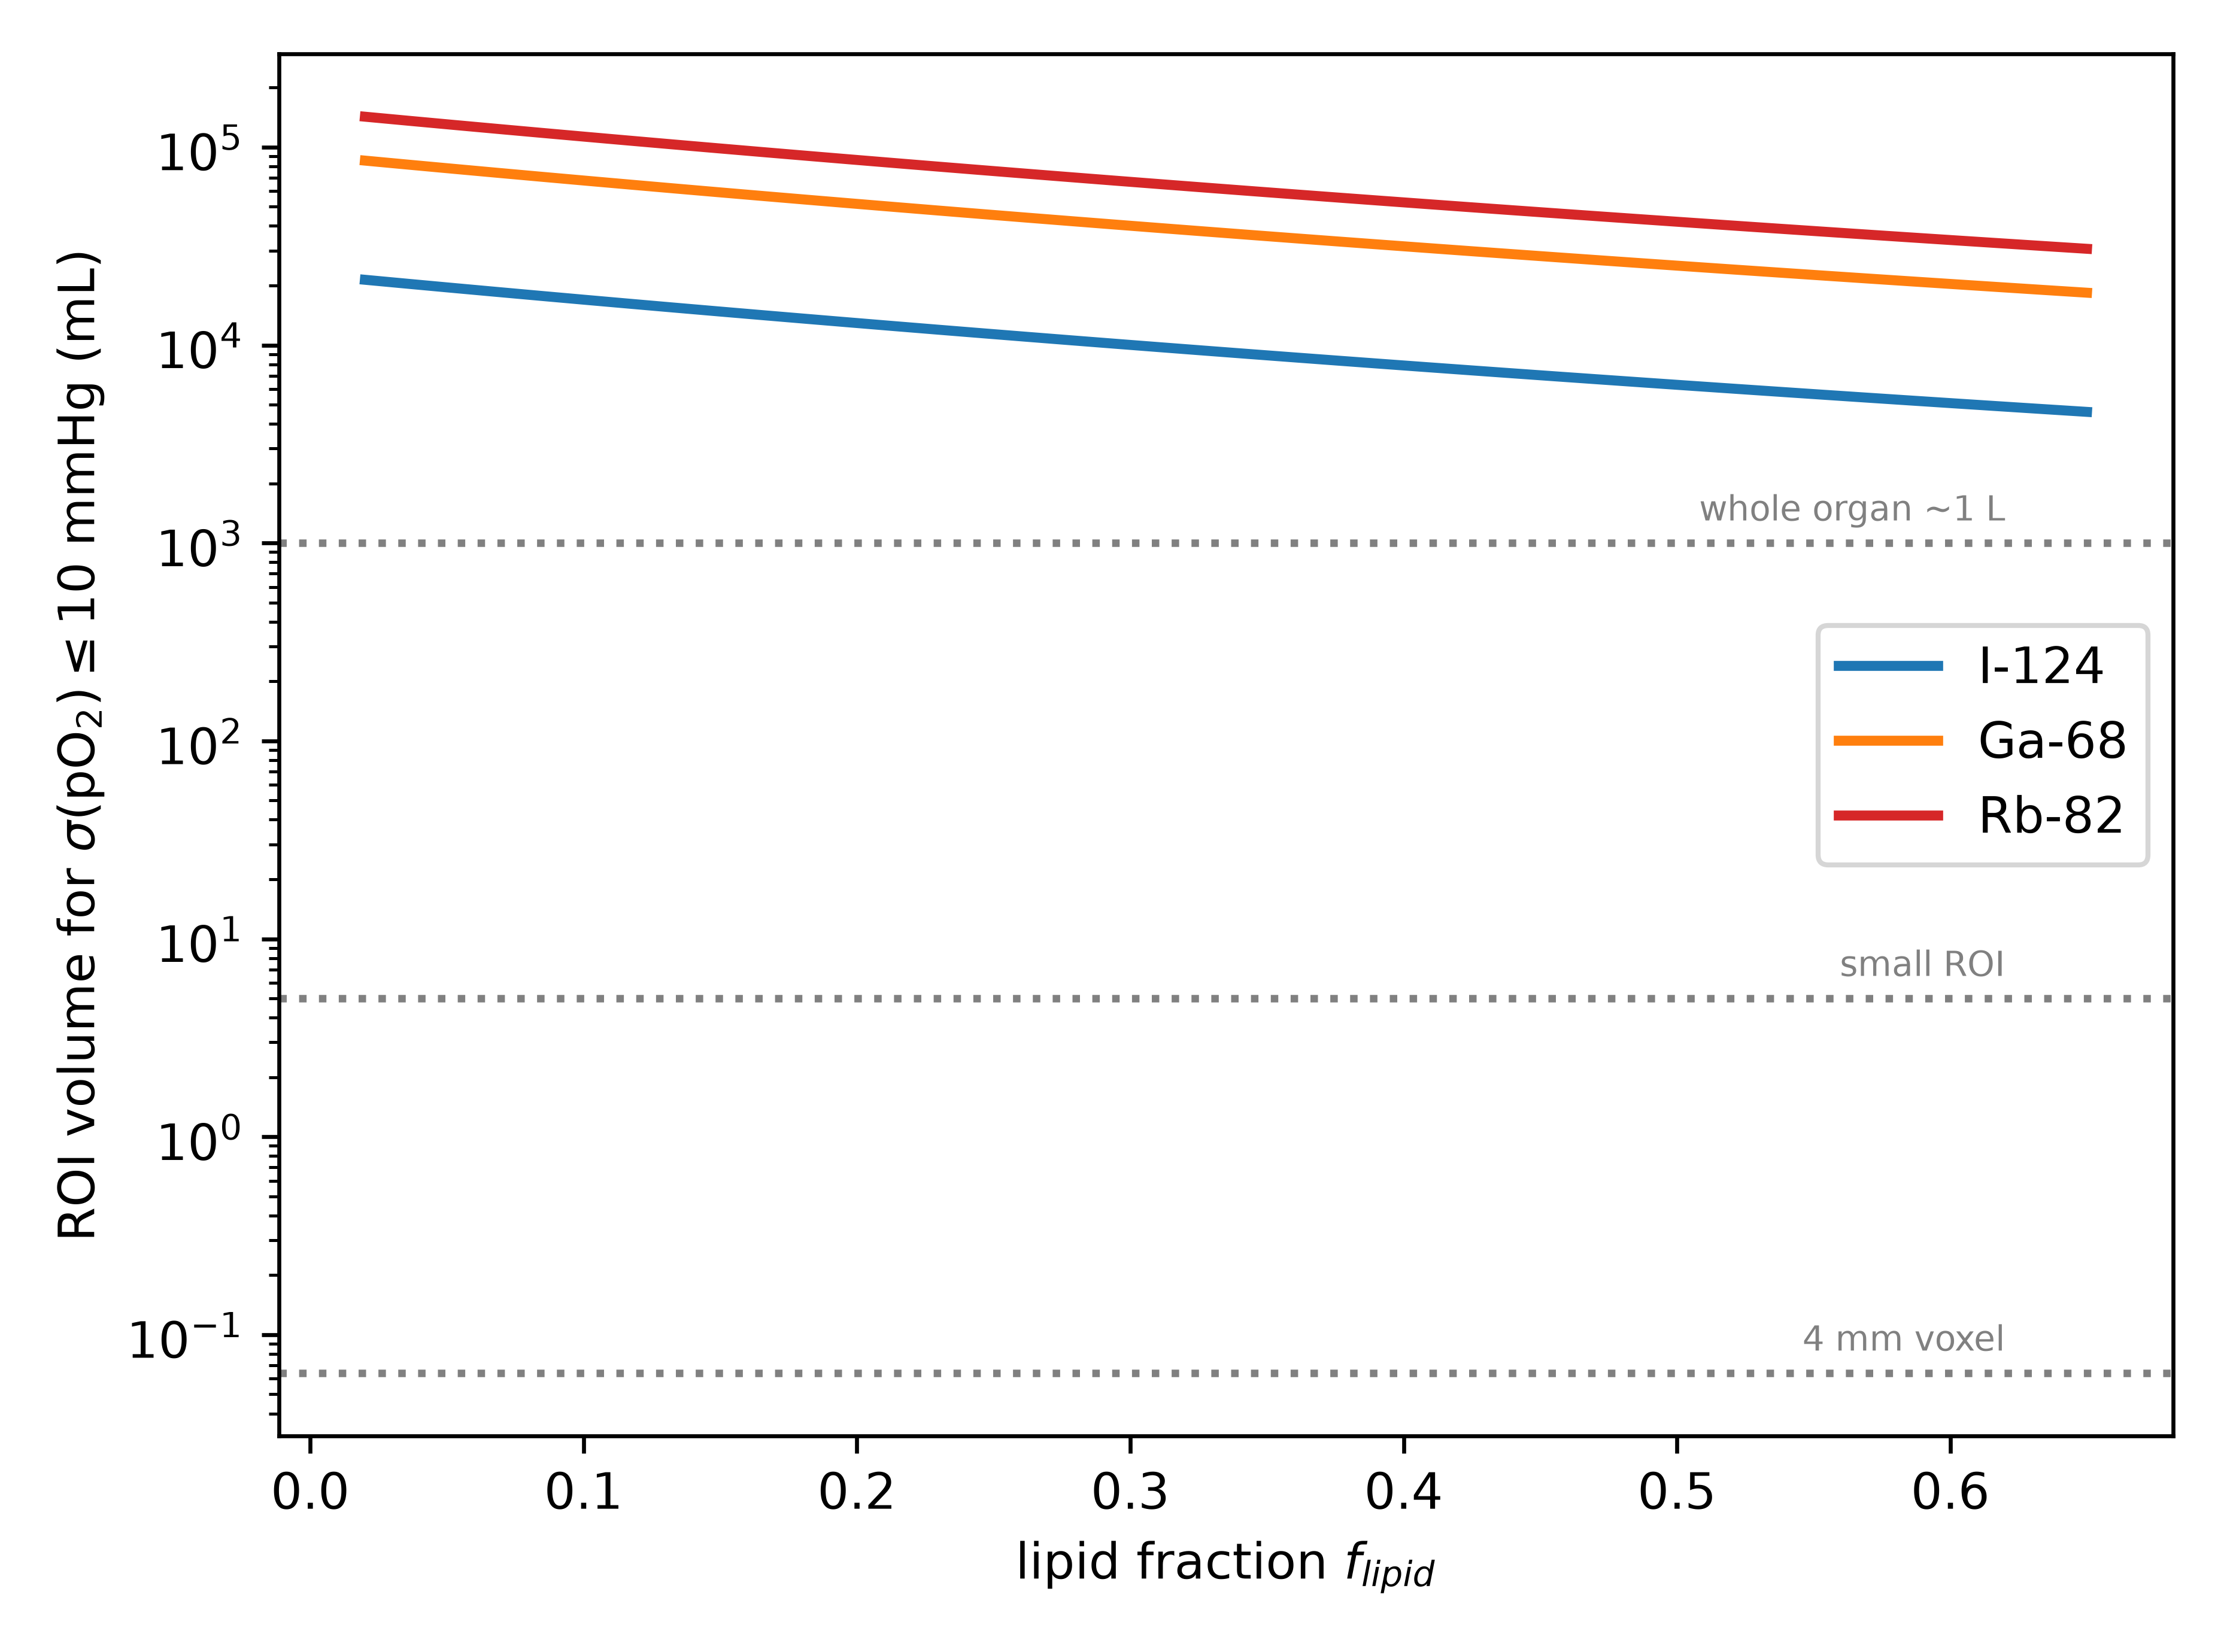
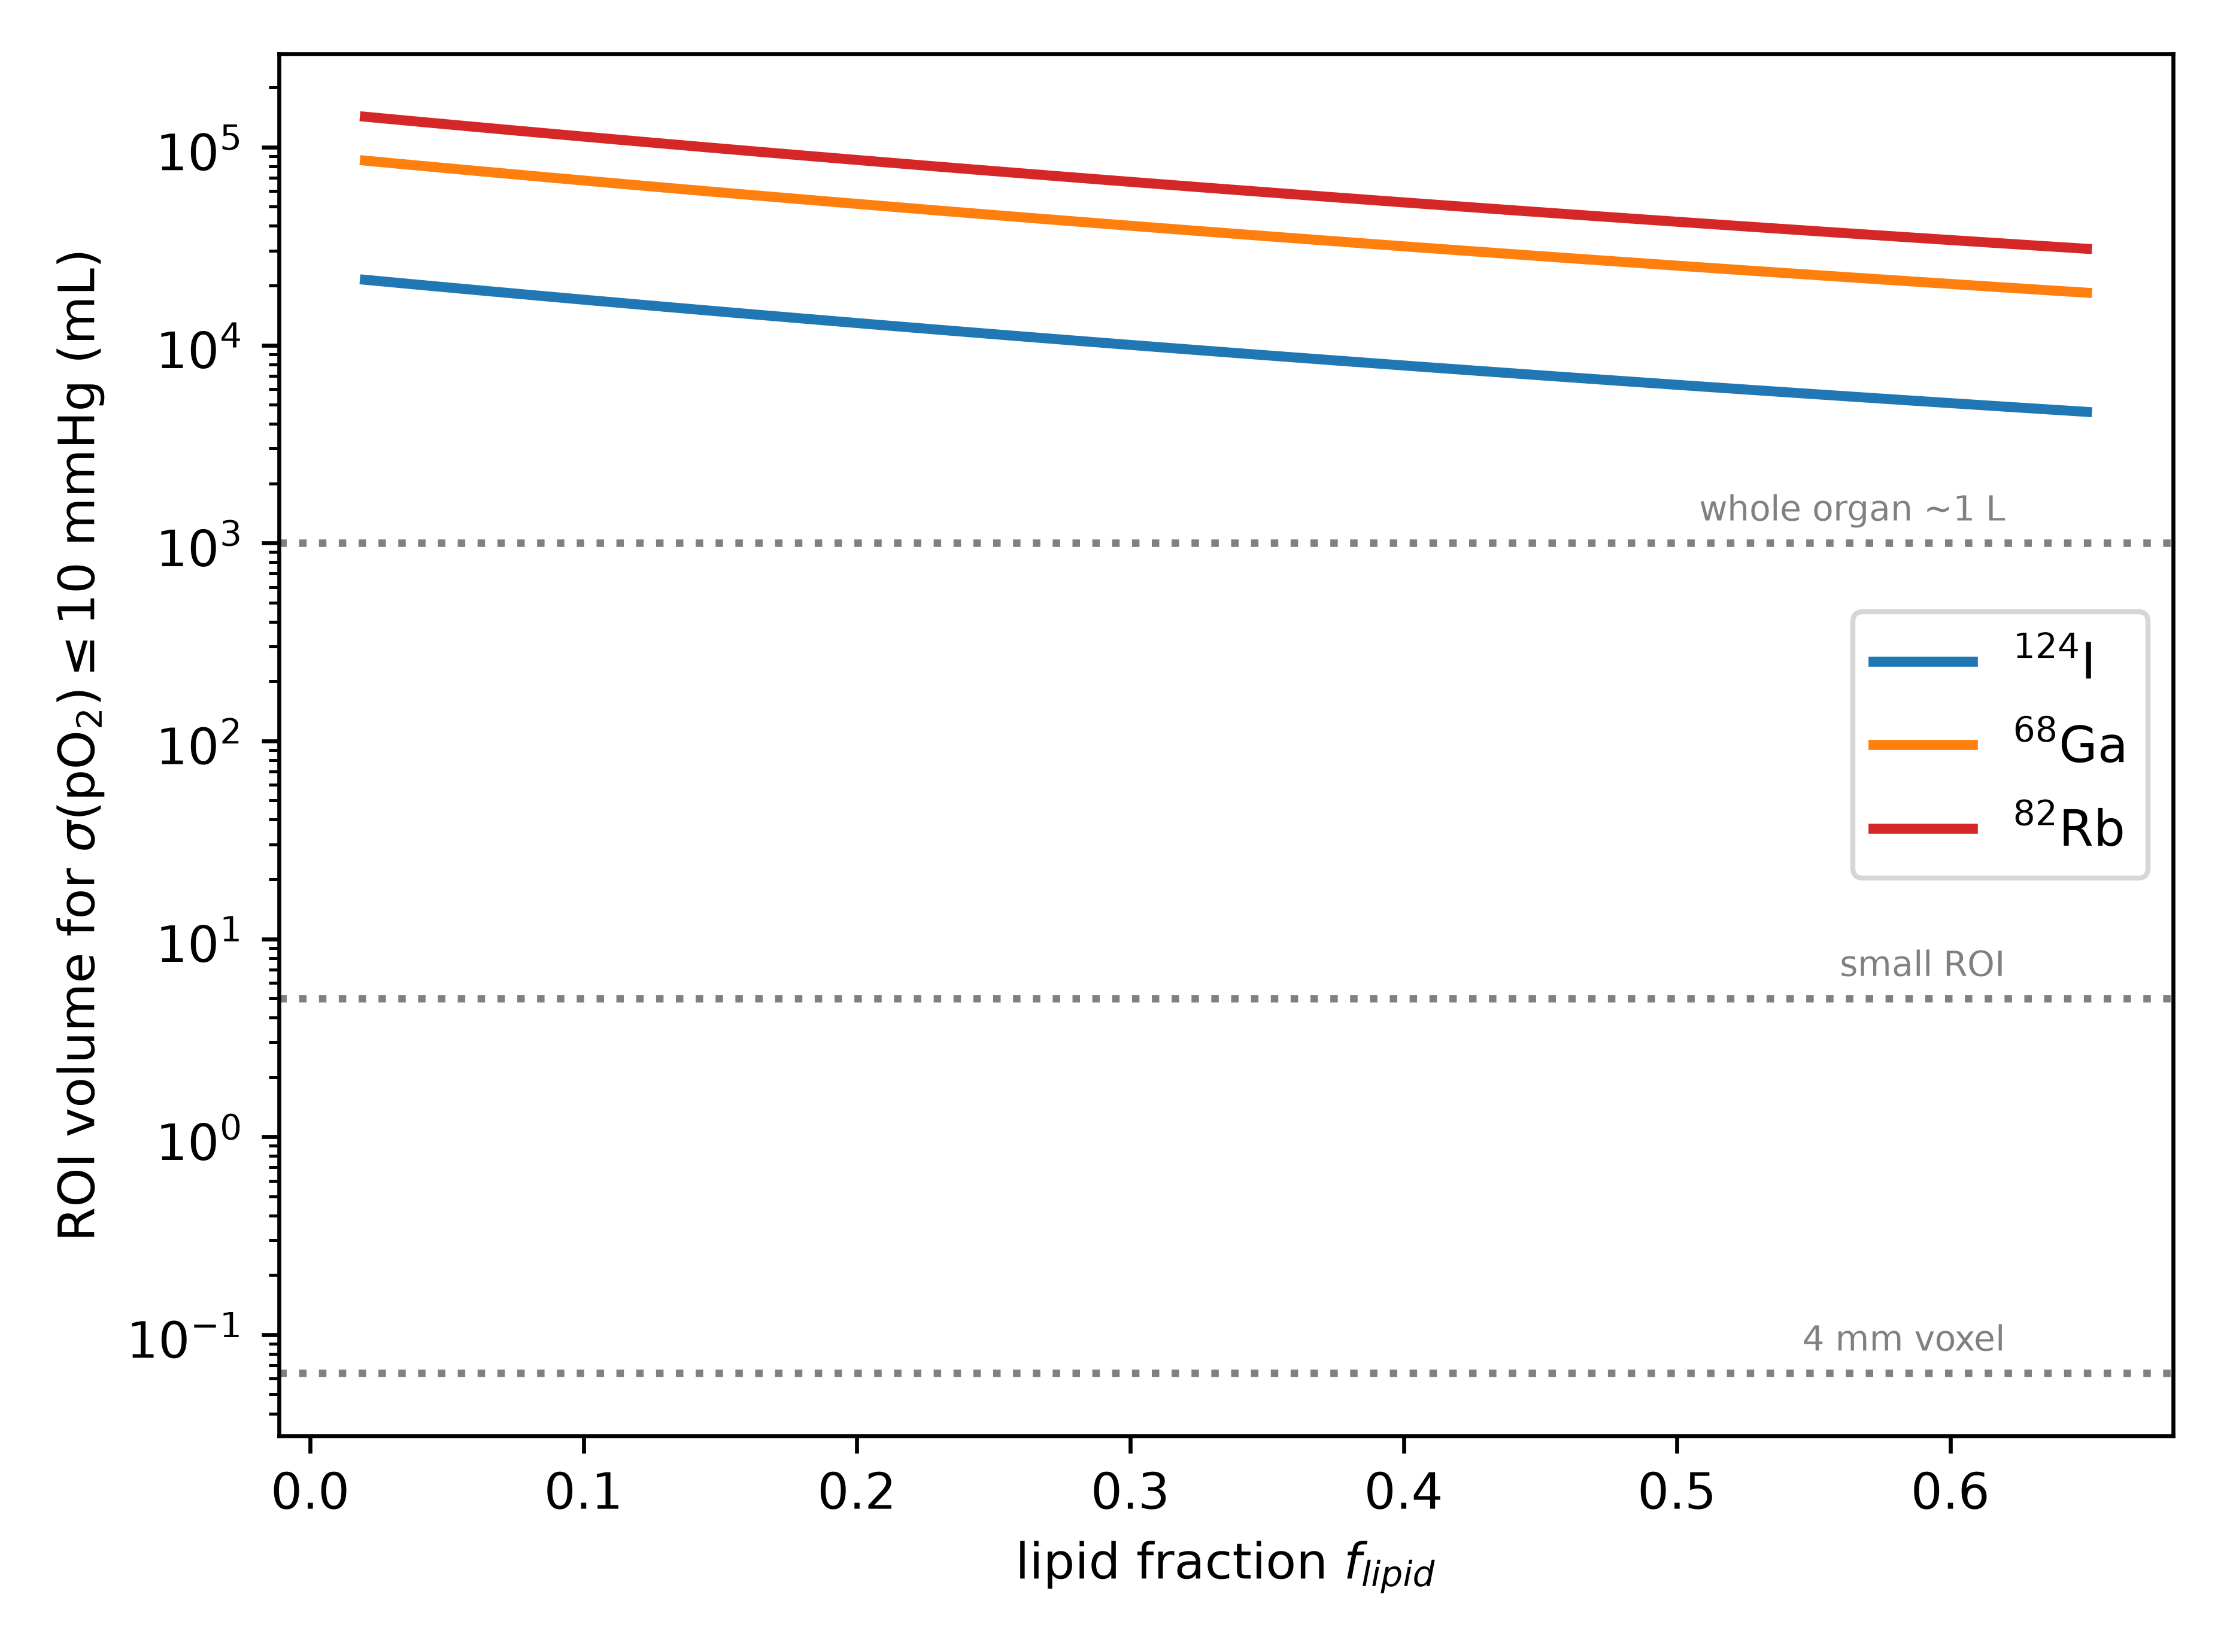
Archive EJNMMI LaTeX submission package

Changed region(s): [[0.8108, 0.3739, 0.9667, 0.5297]]

diff --git a/paper/submission_ejnmmi_latex/main.tex b/paper/submission_ejnmmi_latex/main.tex
@@ -1,0 +1,318 @@
+% Springer Nature LaTeX submission source generated from paper/manuscript_ejnmmi.md
+% Template class: Springer Nature sn-jnl.cls, December 2024 package.
+% Editorial Manager note: all files are kept at the same folder level.
+\documentclass[pdflatex,sn-mathphys-num]{sn-jnl}
+
+\usepackage[T1]{fontenc}
+\usepackage[utf8]{inputenc}
+\usepackage{graphicx}
+\usepackage{amsmath,amssymb,amsfonts}
+\usepackage{booktabs}
+\usepackage{longtable}
+\usepackage{array}
+\usepackage{calc}
+\usepackage{url}
+\usepackage{textcomp}
+\urlstyle{same}
+\def\UrlBreaks{\do\/\do-\do\_}
+\sloppy
+
+\hypersetup{hypertexnames=false}
+\providecommand{\tightlist}{\setlength{\itemsep}{0pt}\setlength{\parskip}{0pt}}
+\raggedbottom
+
+\begin{document}
+
+\title[Oxygenation versus tissue composition in positronium-lifetime PET]{Oxygenation versus tissue composition in positronium-lifetime PET: an identifiability limit for hypoxia imaging}
+
+\author*[1,2]{\fnm{Ernest Darell} \sur{Zerme{\~n}o}}\email{[email redacted]}
+
+\affil*[1]{\orgname{Universidad Panamericana}, \orgaddress{\city{Zapopan}, \country{Mexico}}}
+\affil[2]{\orgname{Universidad de Guadalajara}, \orgaddress{\city{Zapopan}, \country{Mexico}}}
+
+\abstract{
+
+\textbf{Purpose.} Positronium lifetime imaging with long-axial-field-of-view PET/CT has been proposed as a biomarker of tissue oxygenation. The same lifetime also depends on tissue composition. We quantified whether oxygenation and composition can be separated from positronium observables, and what bias arises if composition is ignored.
+
+\textbf{Methods.} A rate-additivity model mapped pO\(_2\) and lipid/free-volume fraction to the ortho-positronium lifetime \(\tau_3\) and intensity \(I_3\). We derived the apparent-pO\(_2\) bias of a water-calibrated reader, analysed Fisher-information rank for \(\tau_3\) alone, computed Cram{\'e}r-Rao bounds (CRLBs) for \((pO_2,f)\) from a Poisson lifetime-spectrum model with nuisance profiling, and translated the bounds into counts and region-of-interest volumes.
+
+\textbf{Results.} From \(\tau_3\) alone, oxygenation and composition were structurally non-identifiable because both enter one summed decay rate. Ignoring composition produced apparent-pO\(_2\) errors of -178, -439 and -860 mmHg at 2\%, 5\% and 10\% lipid for tissue at 20 mmHg. Adding \(I_3\) restored identifiability in principle when the \((\lambda_3,I_3)\) Jacobian was non-collinear; in the pessimistic baseline \(\partial I_3/\partial pO_2\approx0\), this required \(\partial I_3/\partial f\neq0\). The pO\(_2\) CRLB remained 330-760 mmHg at \(10^5\) o-Ps counts. A 10 mmHg target required litre-scale pooling in current yield scenarios and was unreachable at native 4 mm voxel scale. Under an optimistic high-lipid-quenching stress test, small fatty ROIs approached feasibility, but lean tumour-like tissue remained litre-scale.
+
+\textbf{Conclusion.} Positronium-lifetime hypoxia imaging is limited by an oxygenation-versus-composition identifiability problem. Lifetime-only maps should not be interpreted as oxygenation maps without composition control and a second observable.}
+
+\keywords{positronium lifetime imaging, PET/CT, hypoxia, oxygenation, identifiability, Cram{\'e}r--Rao bound}
+
+\maketitle
+
+\section{Introduction}\label{introduction}
+
+Ortho-positronium (o-Ps), the triplet bound state formed in a fraction of positron-electron annihilations, localises in nanometre-scale free-volume regions and annihilates in matter predominantly through pick-off processes. Its lifetime is therefore sensitive to tissue microstructure and composition. Molecular oxygen provides an additional paramagnetic quenching channel through spin conversion, making the o-Ps lifetime an attractive candidate biomarker for oxygenation and tumour hypoxia \cite{ref1,ref2}. This is clinically relevant because hypoxic tumour regions are more resistant to radiotherapy and systemic therapy, while established nuclear-medicine hypoxia tracers have practical limitations.
+
+The technical basis for in-vivo positronium lifetime imaging (PLI) has advanced rapidly. Dedicated multi-photon systems and long-axial-field-of-view PET/CT scanners now support in-vivo positronium measurements and regional lifetime estimates \cite{ref3,ref4,ref5,ref6}. These developments make the oxygenation question timely. However, the o-Ps lifetime is not oxygen-specific. Across soft tissues, composition-driven lifetime variation is on the order of hundreds of picoseconds, whereas the oxygen-specific term implied by aqueous quenching calibrations is on the order of picoseconds across physiological pO\(_2\) differences \cite{ref1,ref7}. Calibrations performed in water or aqueous samples control composition by design and therefore do not test the in-vivo confound.
+
+The relevant prior work has established the ingredients separately. Shibuya and Stepanov established oxygen quenching and its spin-conversion mechanism \cite{ref1,ref2}; Avachat et al.~showed that lifetime separates soft tissues by composition/free-volume \cite{ref7}; Moskal and Mercolli demonstrated in-vivo PLI and LAFOV feasibility \cite{ref3,ref4,ref5,ref6}; photon-economy studies address estimation of a single lifetime \cite{ref8,ref9}; and 3\(\gamma\)/2\(\gamma\) oxygenation work motivates multi-observable readouts \cite{ref10,ref11,ref12}. What has been missing is a quantitative statement of whether oxygenation and composition are identifiable as separate variables, how large the apparent hypoxia bias can be, and how many counts would be needed to overcome the degeneracy with a second observable.
+
+Here we formulate the problem as an identifiability and CRLB analysis for an emerging nuclear-medicine biomarker. We quantify the bias produced by a lifetime-only, water-calibrated interpretation; prove the structural rank defect of the lifetime-only inverse problem; evaluate whether adding o-Ps intensity \(I_3\) or a related 3\(\gamma\)/2\(\gamma\) observable can break the degeneracy; and translate the resulting precision limits into count and volume requirements. A related single-subject cardiac PLI re-analysis reported an in-vivo lifetime contrast not explained by blood oxygenation, illustrating why the general identifiability problem matters in human data \cite{ref13}.
+
+\section{Material and methods}\label{material-and-methods}
+
+\subsection{Forward model}\label{forward-model}
+
+We modelled the o-Ps decay rate as a sum of independent channels:
+
+\[ \lambda_3 = 1/\tau_3 = \lambda_{\mathrm{pickoff}}(f) + \kappa(f)\alpha(f)pO_2, \]
+
+where \(f\) is an effective lipid/free-volume-rich composition coordinate in a two-compartment tissue, \(\lambda_{\mathrm{pickoff}}(f)\) is the composition-dependent baseline rate, \(\kappa\) is the oxygen quenching constant and \(\alpha\) is oxygen solubility. The baseline lifetime \(\tau_0(f)\) interpolated between water and lipid endpoints. The water endpoint was used as an operational PET/LAFOV water-reference lifetime, anchored to the 1.815 +/- 0.013 ns water measurement reported by Steinberger et al.~\cite{ref14} and consistent with the approximately 1.82 ns water-rich endpoint measured with \(^{124}\)I PLI by Mercolli et al.~\cite{ref15}, rather than as a universal deoxygenated pick-off constant. The lipid:water oxygen-solubility ratio was anchored to published oil/lipid measurements \cite{ref16,ref17}. The o-Ps intensity was modelled as
+
+\[ I_3 = I_{3,w} + a_f f + a_p pO_2, \]
+
+where \(a_f=\partial I_3/\partial f\) and \(a_p=\partial I_3/\partial pO_2\). The two load-bearing unknowns were made explicit: \(\kappa_{\mathrm{lipid}}\), swept over 0.1-1.0 times the water value as a conservative baseline sweep, and the composition slope \(\partial I_3/\partial f\) (Table 1). The baseline scenario assumed the pessimistic case \(\partial I_3/\partial pO_2 \approx 0\), so that oxygen affects the lifetime rate but not o-Ps formation probability.
+
+\subsection[Apparent-pO2 bias]{\texorpdfstring{Apparent-pO$_2$ bias}{Apparent-pO2 bias}}\label{apparent-po_2-bias}
+
+We defined a naive reader as an estimator that assumes pure-water calibration (\(f=0\)) and inverts an observed lifetime to pO\(_2\). The resulting apparent-pO\(_2\) error was computed over true pO\(_2\) and lipid fraction. This bias quantifies the oxygenation error that would arise when a composition-dependent lifetime is interpreted as oxygen-specific.
+
+\subsection{Identifiability and CRLB analysis}\label{identifiability-and-crlb-analysis}
+
+For \(\theta=(pO_2,f)\), Fisher information matrices were computed from \(\tau_3\) alone and from the two-observable vector \((\tau_3,I_3)\). Structural non-identifiability was defined by rank deficiency of the Fisher information matrix; practical identifiability was assessed by the CRLB and parameter correlation. From \(\tau_3\) alone, both parameters enter through the scalar rate \(\lambda_3\). With the single score row
+
+\[J=[\,\partial\lambda_3/\partial pO_2,\ \partial\lambda_3/\partial f\,],\]
+
+the lifetime-only Fisher information is
+
+\[F_\tau=\sigma_\lambda^{-2}J^\top J,\qquad \det F_\tau=0.\]
+
+Therefore the Fisher information has rank at most 1 and the individual CRLBs for pO\(_2\) and \(f\) diverge. With \((\tau_3,I_3)\), let \(a=\partial\lambda_3/\partial pO_2\), \(b=\partial\lambda_3/\partial f\), \(p=\partial I_3/\partial pO_2\) and \(c=\partial I_3/\partial f\). The two-observable problem is locally identifiable only when
+
+\[\det J_{\lambda,I}=a\,c-b\,p\neq0,\]
+
+which is the exact non-collinearity condition. In the pessimistic baseline \(p\approx0\), this reduces to \(c=\partial I_3/\partial f\neq0\) because \(a\neq0\). This CRLB/identifiability framing follows the same logic used in other multi-parameter imaging inverse problems \cite{ref19}.
+
+\subsection{Poisson spectrum and nuisance profiling}\label{poisson-spectrum-and-nuisance-profiling}
+
+To avoid treating \(\tau_3\) and \(I_3\) as independent clean measurements, we built a binned Poisson lifetime-spectrum model. The expected spectrum contained a fast exponentially modified Gaussian component, an o-Ps component with slope \(\tau_3(\theta)\) and amplitude \(I_3(\theta)\), and a large flat accidental background. The per-bin Fisher information was
+
+\[F_{ab} = \sum_k m_k^{-1}\,\partial_a m_k\,\partial_b m_k,\]
+
+where \(m_k\) is the expected count in bin \(k\). This includes the \(\tau_3\)-\(I_3\) estimation covariance. We also profiled spectral nuisance parameters by extending the Fisher information matrix to include background level, fast-component lifetime, prompt offset and instrument resolution, then marginalising to \((pO_2,f)\). As an internal estimator check, Poisson spectra were simulated under the same forward model and fitted by maximum likelihood to verify attainability of the fixed-nuisance CRLB (Online Resource 1).
+
+\subsection{Counts and volume model}\label{counts-and-volume-model}
+
+For the count-to-volume translation, we used a scenario anchor from a published \(^{44}\)Sc PLI phantom study: approximately \(3.6\times10^4\) o-Ps counts in a 5.57 mL region \cite{ref18}. We scaled o-Ps counts by region-of-interest volume and by scenario-level effective isotope-yield factors representing prompt branching and source-to-background conditions. The scenarios were \(^{124}\)I (best yield), \(^{68}\)Ga/\(^{44}\)Sc (reference) and \(^{82}\)Rb (lower yield). These are planning scenarios, not universal scanner constants. For each tissue state, we computed the region volume required to reach \(\sigma(pO_2)\leq10\) mmHg and classified a virtual tumour at 4 mm voxel scale as viable, marginal or not achievable.
+
+All analyses were implemented in Python 3.13 using NumPy, SciPy and Matplotlib. Code, constants and generated results are available in the public repository listed in Data Availability. Use of AI-assisted tools is reported in Statements and Declarations.
+
+\section{Results}\label{results}
+
+\subsection{Lifetime-only interpretation produces large apparent oxygenation errors}\label{lifetime-only-interpretation-produces-large-apparent-oxygenation-errors}
+
+The composition-dependent lifetime shift dominated the oxygen-specific lifetime term. For tissue truly at pO\(_2\) = 20 mmHg, a water-calibrated lifetime read produced apparent-pO\(_2\) errors of -178 mmHg at 2\% lipid, -439 mmHg at 5\% lipid and -860 mmHg at 10\% lipid (Fig. 1). These values are physiologically implausible, indicating that the uncorrected lifetime read is composition-dominated rather than oxygen-specific. The result is conditional on the endpoint-mixing forward model, but not fragile: the bias scaled approximately linearly with the composition-to-lifetime coupling in sensitivity tests, and fell below 10 mmHg at 5\% lipid only if that coupling was approximately 44-fold smaller than the measured water-adipose baseline gap.
+
+The oxygen sensitivity was also composition-dependent, temperature-dependent and uncertain. At body temperature the aqueous sensitivity was approximately 0.09 ps/mmHg (O\(_2\) solubility approximately 1.3 microM/mmHg at 37 degrees C), whereas the aqueous calibration of Shibuya et al.~near room temperature (approximately 20 degrees C) implies approximately 0.13-0.14 ps/mmHg; the difference reflects the temperature dependence of O\(_2\) solubility, and the smaller body-temperature value is the one relevant in vivo. Because \(\kappa_{\mathrm{lipid}}\) has not been measured in relevant lipid/protein environments, the conservative baseline model predicted a net range of approximately 0.09-0.90 ps/mmHg in lipid-rich material across the \(\kappa_{\mathrm{lipid}}\) sweep (Fig. 2).
+
+\subsection[ tau3 alone is structurally non-identifiable]{\texorpdfstring{$\tau_3$}{tau3} alone is structurally non-identifiable}\label{tau_3-alone-is-structurally-non-identifiable}
+
+From the lifetime alone, pO\(_2\) and composition were not separately identifiable. Both parameters enter only through the single summed decay rate \(\lambda_3\), so the two-parameter Fisher information matrix has rank 1 and the individual CRLBs diverge. This is an algebraic non-identifiability, not a shortage of counts.
+
+Adding \(I_3\) restored identifiability in principle, because composition moves both \(\tau_3\) and \(I_3\) while, in the pessimistic baseline model, oxygen moves only the rate. The exact local condition is \(\det J_{\lambda,I}=a\,c-b\,p\neq0\) (Fig. 3). In the baseline \(p=\partial I_3/\partial pO_2\approx0\), the condition reduces to \(\partial I_3/\partial f\neq0\); if that slope approaches zero, the system again becomes degenerate. The dependence on the composition slope was large even in the fixed-nuisance Poisson-spectrum model (Table 2).
+
+\subsection{The second-observable rescue is statistically weak}\label{the-second-observable-rescue-is-statistically-weak}
+
+At \(10^5\) o-Ps counts and a representative hypoxic fatty state (pO\(_2\) = 20 mmHg, \(f=0.10\)), the pO\(_2\) CRLB remained large across noise models: 332 mmHg for the fixed-nuisance Poisson spectrum, 570 mmHg for an idealised two-observable model using empirical lifetime precision from the field, 665 mmHg after profiling background and fast-component nuisances, and 758 mmHg after profiling all tested nuisances (Table 3). The spectral model also exposed substantial \(\tau_3\)-\(I_3\) covariance, with parameter correlation \(\rho=0.70\) in the optimistic Poisson model compared with \(\rho=0.05\) in the idealised two-observable model.
+
+The count scaling implied approximately \(3\)-\(5\times10^8\) o-Ps events for a 10 mmHg target in the profiled models, depending on the noise model (Fig. 4). The spectrum calculations are expressed in total in-window events, with \(N_3=I_3(1-\mathrm{background})N_{\mathrm{total}}\); at the representative state used here, \(10^5\) o-Ps counts correspond to approximately \(1.1\times10^6\) in-window events. Parametric Monte Carlo confirmed that the fixed-nuisance bound is statistically attainable under the assumed spectrum model: empirical standard deviations matched the CRLB at both tested count levels, and the pO\(_2\) pull distribution had mean +0.05 and standard deviation 1.00 (Online Resource 1). This validates estimator behaviour under the specified model; it does not validate the unmeasured biological constants.
+
+\subsection[Voxel-scale pO2 separation is not achievable under current yield assumptions]{\texorpdfstring{Voxel-scale pO$_2$ separation}{Voxel-scale pO2 separation} is not achievable under current yield assumptions}\label{voxel-scale-po_2-separation-is-not-achievable-under-current-yield-assumptions}
+
+When translated to region-of-interest volumes, clinically useful separation required litre-scale pooling. At pO\(_2\) = 10 mmHg and 5\% lipid, the required pooled volumes were approximately 20 L for the best-yield \(^{124}\)I scenario, 78 L for \(^{68}\)Ga and 130 L for \(^{82}\)Rb (Fig. 5). At 60\% lipid, where oxygen sensitivity is higher, the best-yield scenario still required approximately 5 L. At a native 4 mm clinical voxel (0.064 mL), pO\(_2\) separation was not achievable anywhere in the virtual tumour phantom (Fig. 6).
+
+Because \(\kappa_{\mathrm{lipid}}\) is unmeasured, we also performed an intentionally high stress test above the conservative baseline sweep. Increasing \(\kappa_{\mathrm{lipid}}\) markedly improved fatty-tissue feasibility, but did not remove the structural non-identifiability or make the lean-tissue tumour-hypoxia regime voxel-feasible. In the \(^{124}\)I scenario, the required volume at \(f=0.60\) and pO\(_2\) = 10 mmHg fell from 5.1 L at the central 0.3\(\times\) assumption to 98 mL at 3\(\times\) and 9.5 mL at a 10\(\times\) organic-liquid stress test. At \(f=0.05\), however, the same stress test still required litre-scale pooling: 19.6 L, 7.1 L and 1.7 L at 0.3\(\times\), 3\(\times\) and 10\(\times\), respectively (Table 4). Thus a small fatty ROI could become conceivable under an optimistic organic-liquid-like quenching stress test, but lean tumour-hypoxia tissue remains litre-scale and the native-voxel conclusion and need for a second observable are unchanged.
+
+\section{Discussion}\label{discussion}
+
+This analysis identifies a fundamental limitation for positronium-lifetime hypoxia imaging. Oxygen quenching of o-Ps is real, but a lifetime map is not an oxygenation map unless composition is controlled. From \(\tau_3\) alone, oxygenation and composition collapse into a single measured decay rate, making the inverse problem structurally non-identifiable even with arbitrarily many counts. The practical consequence is large apparent-pO\(_2\) bias when composition is ignored.
+
+The analysis is also constructive. It shows that a second observable, such as o-Ps intensity \(I_3\) or a related 3\(\gamma\)/2\(\gamma\) ratio, is required to break the degeneracy. This is the o-Ps analogue of adding a second echo to make fat/water separation full-rank: one contrast dimension is not enough when two physical sources move the signal. In the pessimistic baseline model, the key separability handle is the composition dependence of \(I_3\). Therefore, PLI oxygenation studies should report the lifetime together with \(I_3\) or 3\(\gamma\)/2\(\gamma\), and should treat co-registered CT/MRI-derived composition as a correction variable rather than a nuisance to ignore.
+
+However, identifiability in principle does not imply clinical feasibility. The CRLBs show that current count yields are far from sufficient for voxel-level pO\(_2\) separation. The relevant design target is not merely estimating a single lifetime, for which photon-limited precision scaling is well established \cite{ref8,ref9}, but separating oxygenation from composition in a two-parameter model. Under the yield scenarios used here, separation is out of reach at native voxel resolution by approximately five to six orders of magnitude. The smaller three-to-four-order gap applies only after pooling to millilitre-scale regions. This does not preclude regional, ex-vivo or future high-yield studies, but it sets a quantitative bar for claims of voxel-scale hypoxia imaging.
+
+The decisive experiment is a controlled PALS matrix over O\(_2\) by medium: water, lipid emulsion and protein/serum. Such an experiment should measure both \(\tau_3\) and \(I_3\) under independently measured dissolved oxygen. It would determine \(\kappa_{\mathrm{lipid}}\), protein-environment quenching, \(\partial I_3/\partial f\) and \(\partial I_3/\partial pO_2\), converting the present conditional model into a measured one. This is a modest bench experiment compared with a full clinical imaging study and should precede strong clinical claims about PLI hypoxia.
+
+This study has limitations. The forward model is intentionally transparent and two-compartment; it does not include richer Tao-Eldrup free-volume physics or chemical effects such as inhibition and radical scavenging. The \(I_3\) values are illustrative placeholders, and the composition slope is assumed non-zero in the baseline scenario. The lipid quenching constant is unmeasured in relevant biological environments and was therefore swept. The count model is anchored to one published phantom-study yield and uses scenario-level isotope factors rather than scanner-specific measured yields. Nuisance profiling provides a more conservative CRLB, but the spectrum model remains idealised. In particular, \(I_3\) in the model is the intrinsic o-Ps formation probability, whereas a scanner estimates a fitted o-Ps amplitude that also absorbs detection efficiency, scatter, attenuation, geometric acceptance, accidental background and prompt-gamma contamination. The FIM profiles per-spectrum nuisances, but not this full imaging chain; the realistic \(I_3\) covariance and the corresponding CRLB are therefore likely lower bounds on the in-system problem. Finally, the Monte Carlo validates statistical attainability under the assumed spectrum model, not the biological forward model. A PALS measurement or re-analysis of real data with \(I_3\) extraction remains the key empirical anchor.
+
+In summary, positronium-lifetime hypoxia imaging is limited by an oxygenation-versus-composition identifiability problem. Lifetime-only PLI contrasts should not be interpreted as hypoxia without composition control. A second observable can make the problem identifiable, but current count yields imply that clinically useful voxel-scale separation is not achievable without major gains in effective o-Ps statistics or strong external composition constraints. Highly fatty tissue may be less prohibitive under an optimistic high-\(\kappa_{\mathrm{lipid}}\) stress test, but that does not rescue the lean tumour-hypoxia regime targeted by voxel-scale hypoxia imaging claims.
+
+\section*{Statements and Declarations}\label{statements-and-declarations}
+
+\textbf{Funding.} The author declares that no funds, grants or other support were received during the preparation of this manuscript.
+
+\textbf{Competing interests.} The author has no relevant financial or non-financial interests to disclose.
+
+\textbf{Author contributions.} E.D.Z. conceived the study, implemented the model, performed the analysis, generated the figures and wrote the manuscript.
+
+\textbf{Data availability.} No clinical or animal datasets were analysed. The datasets generated during the current study, including code, constants, intermediate outputs and figures, are available at \url{https://github.com/Jefemaestro33/oxygenation-versus-tissue-composition-in-positronium-lifetime-pet-identifiability-limit}.
+
+\textbf{Code availability.} The analysis code is available at \url{https://github.com/Jefemaestro33/oxygenation-versus-tissue-composition-in-positronium-lifetime-pet-identifiability-limit} under the repository licence terms.
+
+\textbf{Ethics approval.} Not applicable. This is a modelling and methods study using no human participants, human data, animals or animal data.
+
+\textbf{Consent to participate.} Not applicable.
+
+\textbf{Consent to publish.} Not applicable.
+
+\textbf{Use of AI tools.} AI-assisted programming and editorial tools were used to help cross-check code, draft text and identify consistency issues under the author's direction. The author reviewed all outputs and takes responsibility for the final manuscript, analysis and interpretation.
+
+\section*{Tables}\label{tables}
+
+\textbf{Table 1} Forward-model constants and load-bearing unknowns
+
+\begin{longtable}[]{@{}
+  >{\raggedright\arraybackslash}p{(\linewidth - 6\tabcolsep) * \real{0.2500}}
+  >{\raggedright\arraybackslash}p{(\linewidth - 6\tabcolsep) * \real{0.2500}}
+  >{\raggedright\arraybackslash}p{(\linewidth - 6\tabcolsep) * \real{0.2500}}
+  >{\raggedright\arraybackslash}p{(\linewidth - 6\tabcolsep) * \real{0.2500}}@{}}
+\toprule\noalign{}
+\begin{minipage}[b]{\linewidth}\raggedright
+Quantity
+\end{minipage} & \begin{minipage}[b]{\linewidth}\raggedright
+Value
+\end{minipage} & \begin{minipage}[b]{\linewidth}\raggedright
+Status
+\end{minipage} & \begin{minipage}[b]{\linewidth}\raggedright
+Source
+\end{minipage} \\
+\midrule\noalign{}
+\endhead
+\bottomrule\noalign{}
+\endlastfoot
+\(\tau_0\) water & 1.815 ns & operational water reference & \cite{ref14,ref15} \\
+\(\tau_0\) adipose & 2.5-2.7 ns & measured & \cite{ref7} \\
+\(\kappa\)(O\(_2\)) water & 0.0204 \textmu{}mol\(^{-1}\) \textmu{}s\(^{-1}\) L & measured & \cite{ref1,ref2} \\
+O\(_2\) solubility lipid:water & approximately \(5\times\) & measured & \cite{ref16,ref17} \\
+Quenching mechanism & spin conversion & measured & \cite{ref2} \\
+\(\kappa_{\mathrm{lipid}}\) & unmeasured; conservative baseline sweep 0.1-1.0 times water & unknown & proposed experiment \\
+\(\partial I_3/\partial f\) & unmeasured; assumed non-zero in baseline scenario & unknown & proposed experiment \\
+\end{longtable}
+
+\textbf{Table 2} Dependence of the pO\(_2\) CRLB on the composition sensitivity of \(I_3\) at pO\(_2\) = 20 mmHg, \(f\) = 0.10 and \(10^5\) o-Ps counts in the fixed-nuisance Poisson-spectrum model. \(I_3\) is a dimensionless formation-probability fraction with \(I_{3,w}=0.15\) in the nominal placeholder model.
+
+\begin{longtable}[]{@{}rr@{}}
+\toprule\noalign{}
+\(\partial I_3/\partial f\) & \(\sigma(pO_2)\) (mmHg) \\
+\midrule\noalign{}
+\endhead
+\bottomrule\noalign{}
+\endlastfoot
+0.150 (nominal) & 332 \\
+0.050 & 473 \\
+0.015 & 998 \\
+0 & degenerate \\
+\end{longtable}
+
+\textbf{Table 3} Cram{\'e}r-Rao bound on pO\(_2\) at pO\(_2\) = 20 mmHg, \(f\) = 0.10 and \(10^5\) o-Ps counts
+
+\begin{longtable}[]{@{}lrr@{}}
+\toprule\noalign{}
+Noise model & \(\sigma(pO_2)\) (mmHg) & \(\rho\) \\
+\midrule\noalign{}
+\endhead
+\bottomrule\noalign{}
+\endlastfoot
+Poisson, fixed nuisances & 332 & +0.70 \\
+Idealised two-observable & 570 & +0.05 \\
+Poisson, background+fast profiled & 665 & -- \\
+Poisson, all nuisances profiled & 758 & -- \\
+\end{longtable}
+
+\textbf{Table 4} Stress test of the unmeasured lipid quenching constant in the \(^{124}\)I effective-yield scenario at pO\(_2\) = 10 mmHg. Values are ROI volumes needed for \(\sigma(pO_2)\leq10\) mmHg.
+
+\begin{longtable}[]{@{}
+  >{\raggedleft\arraybackslash}p{(\linewidth - 4\tabcolsep) * \real{0.3333}}
+  >{\raggedleft\arraybackslash}p{(\linewidth - 4\tabcolsep) * \real{0.3333}}
+  >{\raggedleft\arraybackslash}p{(\linewidth - 4\tabcolsep) * \real{0.3333}}@{}}
+\toprule\noalign{}
+\begin{minipage}[b]{\linewidth}\raggedleft
+\(\kappa_{\mathrm{lipid}}/\kappa_{\mathrm{water}}\)
+\end{minipage} & \begin{minipage}[b]{\linewidth}\raggedleft
+\(f=0.60\)
+\end{minipage} & \begin{minipage}[b]{\linewidth}\raggedleft
+\(f=0.05\)
+\end{minipage} \\
+\midrule\noalign{}
+\endhead
+\bottomrule\noalign{}
+\endlastfoot
+0.3 (central baseline) & 5.1 L & 19.6 L \\
+1.0 (water-value baseline) & 0.75 L & 14.3 L \\
+3.0 (high stress test) & 98 mL & 7.1 L \\
+10 (organic-liquid stress test) & 9.5 mL & 1.7 L \\
+\end{longtable}
+
+
+
+\begin{thebibliography}{99}
+\bibitem{ref1} Shibuya K, Saito H, Nishikido F, Takahashi M, Yamaya T. Oxygen sensing ability of positronium atom for tumor hypoxia imaging. Commun Phys. 2020;3:173. \url{https://doi.org/10.1038/s42005-020-00440-z}
+\bibitem{ref2} Stepanov PS, Selim FA, Stepanov SV, et al.~Interaction of positronium with dissolved oxygen in liquids. Phys Chem Chem Phys. 2020;22:5123-5131. \url{https://doi.org/10.1039/c9cp06105c}
+\bibitem{ref3} Moskal P, Kisielewska D, Curceanu C, et al.~Feasibility study of the positronium imaging with the J-PET tomograph. Phys Med Biol. 2019;64:055017. \url{https://doi.org/10.1088/1361-6560/aafe20}
+\bibitem{ref4} Moskal P, St{\k{e}}pie{\'n} E{\L}. Positronium as a biomarker of hypoxia. Bio-Algorithms Med-Syst. 2021;17:311-319. \url{https://doi.org/10.1515/bams-2021-0189}
+\bibitem{ref5} Moskal P, Baran J, Bass S, et al.~Positronium image of the human brain in vivo. Sci Adv. 2024;10:eadp2840. \url{https://doi.org/10.1126/sciadv.adp2840}
+\bibitem{ref6} Mercolli L, Steinberger WM, Sari H, et al.~In vivo positronium lifetime measurements with intravenous tracer administration and a long axial field-of-view PET/CT. IEEE Trans Radiat Plasma Med Sci. 2026. \url{https://doi.org/10.1109/TRPMS.2026.3687923}
+\bibitem{ref7} Avachat AV, Mahmoud KH, Leja AG, Xu JJ, Anastasio MA, Sivaguru M, Di Fulvio A. Ortho-positronium lifetime for soft-tissue classification. Sci Rep.~2024;14:21155. \url{https://doi.org/10.1038/s41598-024-71695-7}
+\bibitem{ref8} Berens L, Hsu I, Chen CT, Halpern H, Kao CM. An analytic, moment-based method to estimate orthopositronium lifetimes in positron annihilation lifetime spectroscopy measurements. Bio-Algorithms Med-Syst. 2024;20:40-48. \url{https://doi.org/10.5604/01.3001.0054.9141}
+\bibitem{ref9} K{\"o}llner M, Wolfrum J. How many photons are necessary for fluorescence-lifetime measurements? Chem Phys Lett. 1992;200:199-204. \url{https://doi.org/10.1016/0009-2614(92)87068-Z}
+\bibitem{ref10} Alkhorayef MA, Abuelhia EI, Chin MPW, Spyrou NM. Determination of the relative oxygenation of samples by ortho-positronium 3-gamma decay for future application in oncology. J Radioanal Nucl Chem. 2009;281:171-174. \url{https://doi.org/10.1007/s10967-009-0123-6}
+\bibitem{ref11} Alkhorayef M, Sulieman A, Alsager OA, Alrumayan F, Alkhomashi N. Investigation of using positronium and its annihilation for hypoxia PET imaging. Radiat Phys Chem. 2021;188:109690. \url{https://doi.org/10.1016/j.radphyschem.2021.109690}
+\bibitem{ref12} Moskal P. Quantum entanglement degree, mean positronium lifetime, and the \(3\gamma\)/\(2\gamma\) annihilation-rate ratio as novel PET biomarkers for hypoxia: concept, challenges, and predictions. Bio-Algorithms Med-Syst. 2026;22:56. \url{https://doi.org/10.5604/01.3001.0055.7461}
+\bibitem{ref13} Zerme{\~n}o ED. Cardiac positronium lifetime in human PET: a reproducible right-left ventricular contrast that is not explained by blood oxygenation. medRxiv. 2026. \url{https://doi.org/10.64898/2026.06.14.26355630}
+\bibitem{ref14} Steinberger WM, Mercolli L, Breuer J, et al.~Positronium lifetime validation measurements using a long-axial field-of-view positron emission tomography scanner. EJNMMI Phys. 2024;11:76. \url{https://doi.org/10.1186/s40658-024-00678-4}
+\bibitem{ref15} Mercolli L, Steinberger WM, Rathod N, et al.~Phantom imaging demonstration of positronium lifetime with a long axial field-of-view PET/CT and \(^{124}\)I. EJNMMI Phys. 2025;12:80. \url{https://doi.org/10.1186/s40658-025-00790-z}
+\bibitem{ref16} Battino R, Evans FD, Danforth WF. The solubilities of seven gases in olive oil. J Am Oil Chem Soc. 1968;45:830. \url{https://doi.org/10.1007/BF02540163}
+\bibitem{ref17} Roppongi T, Mizuno N, Miyagawa Y, Kobayashi T, Nakagawa K, Adachi S. Solubility and mass transfer coefficient of oxygen through gas- and water-lipid interfaces. J Food Sci. 2021;86:867-873. \url{https://doi.org/10.1111/1750-3841.15641}
+\bibitem{ref18} Mercolli L, Steinberger WM, Grundler PV, et al.~First positronium lifetime imaging with scandium-44 on a long axial field-of-view PET/CT. Front Nucl Med. 2025;5:1648621. \url{https://doi.org/10.3389/fnume.2025.1648621}
+\bibitem{ref19} Sourbron SP, Buckley DL. Classic models for dynamic contrast-enhanced MRI. NMR Biomed. 2013;26:1004-1027. \url{https://doi.org/10.1002/nbm.2940}
+\end{thebibliography}
+
+\section*{Figure legends}
+
+\begin{figure}[p]
+\centering
+\includegraphics[width=0.95\textwidth]{Fig1.png}
+\caption{Apparent pO\(_2\) error produced by a water-calibrated lifetime interpretation when tissue composition is ignored. The contour marks the region where absolute error is 10 mmHg. Even low lipid fractions drive errors of hundreds of mmHg}
+\end{figure}
+
+\begin{figure}[p]
+\centering
+\includegraphics[width=0.95\textwidth]{Fig2.png}
+\caption{Oxygen sensitivity of the o-Ps lifetime as a function of lipid fraction. The band represents the conservative baseline sweep over the unmeasured lipid quenching constant \(\kappa_{\mathrm{lipid}}\) from 0.1 to 1.0 times the water value; dashed/dotted curves show the 3\(\times\) and 10\(\times\) high-stress cases used in Table 4.}
+\end{figure}
+
+\begin{figure}[p]
+\centering
+\includegraphics[width=0.95\textwidth]{Fig3.png}
+\caption{Separability geometry of \((\tau_3,I_3)\). Iso-\(\tau_3\) contours show the near-degenerate lifetime direction, while iso-\(I_3\) contours provide the composition handle. The shallow crossing reflects identifiability in principle but weak statistical separation}
+\end{figure}
+
+\begin{figure}[p]
+\centering
+\includegraphics[width=0.95\textwidth]{Fig4.png}
+\caption{CRLB \(\sigma(pO_2)\) versus total in-window events for the fixed-nuisance full-spectrum \((\tau_3,I_3)\) fit. The lifetime-only case is structurally non-identifiable. A 10 mmHg target requires order-\(10^9\) in-window events, corresponding to order-\(10^8\) o-Ps counts after the \(N_3=I_3(1-\mathrm{background})N_{\mathrm{total}}\) conversion.}
+\end{figure}
+
+\begin{figure}[p]
+\centering
+\includegraphics[width=0.95\textwidth]{Fig5.png}
+\caption{Region-of-interest volume required to separate pO\(_2\) from composition with \(\sigma(pO_2)\leq10\) mmHg for three effective isotope-yield scenarios. Clinical separation requires litre-scale pooling under current assumptions}
+\end{figure}
+
+\begin{figure}[p]
+\centering
+\includegraphics[width=0.95\textwidth]{Fig6.png}
+\caption{Virtual tumour simulation. The left panel shows true pO\(_2\); the right panel shows voxel-level separability at 4 mm resolution under the profiled CRLB model. pO\(_2\) separation is not achievable anywhere at native voxel scale}
+\end{figure}
+
+\clearpage
+
+\section*{Supplementary information}
+\textbf{Online Resource 1} Parametric Monte Carlo validation of the fixed-nuisance Poisson CRLB under the assumed spectrum model. Pulls of \(\hat{p}O_2\) are close to \(N(0,1)\), showing that the maximum-likelihood estimator reaches the fixed-nuisance CRLB when the forward model is correctly specified.
+
+\end{document}

diff --git a/run/05_separability.py b/run/05_separability.py
@@ -16,7 +16,7 @@ print(L); print("SEPARABILITY BOUNDARY (realistic counts) + virtual tumor"); pri
 
 # --- table: ROI volume (mL) needed for sigma(pO2)<=10 mmHg at hypoxic pO2=10 ---
 print("\nROI volume needed to separate pO2 (<=10 mmHg) from composition, pO2=10:")
-print(f"  {'f_lipid':>8} | {'I-124':>10} {'Ga-68':>10} {'Rb-82':>10}   (mL)")
+print(f"  {'f_lipid':>8} | {'^{124}I':>10} {'^{68}Ga':>10} {'^{82}Rb':>10}   (mL)")
 for f in [0.05, 0.10, 0.30, 0.60]:
     vols = [vx.volume_for_precision(10.0, f, 10.0, iso) for iso in ("I-124", "Ga-68", "Rb-82")]
     s = "  ".join(f"{v:9.1f}" for v in vols)
@@ -28,9 +28,9 @@ print("     so fatty tissue is paradoxically 'easier' -- but also more biased)."
 # --- Fig 5: boundary curves ---
 ff = np.linspace(0.02, 0.65, 40)
 fig, ax = plt.subplots(figsize=(6.2, 4.6))
-for iso, c in [("I-124", "C0"), ("Ga-68", "C1"), ("Rb-82", "C3")]:
+for iso, disp, c in [("I-124", "$^{124}$I", "C0"), ("Ga-68", "$^{68}$Ga", "C1"), ("Rb-82", "$^{82}$Rb", "C3")]:
     v = [vx.volume_for_precision(10.0, x, 10.0, iso) for x in ff]
-    ax.semilogy(ff, v, lw=2, color=c, label=iso)
+    ax.semilogy(ff, v, lw=2, color=c, label=disp)
 for vol, lab in [(0.064, "4 mm voxel"), (5, "small ROI"), (1000, "whole organ ~1 L")]:
     ax.axhline(vol, ls=":", color="gray")
     ax.text(0.62, vol * 1.3, lab, fontsize=7, ha="right", color="gray")

diff --git a/paper/submission_checklist_ejnmmi.md b/paper/submission_checklist_ejnmmi.md
@@ -35,7 +35,7 @@ Format checks:
 - Reference citations use numbered square brackets and now follow first-appearance order.
 - DOI links are included where available; remaining preprints are labelled explicitly as medRxiv records.
 - Count terminology distinguishes total in-window events (`N_total`) from o-Ps counts (`N3`).
-- The Mercolli 44Sc yield is explicitly framed as a published phantom-study scenario anchor, not as a universal scanner constant.
+- The Mercolli ^{44}Sc yield is explicitly framed as a published phantom-study scenario anchor, not as a universal scanner constant.
 - Native-voxel feasibility is stated as a 5-6 order gap; the 3-4 order gap is restricted to
   millilitre-scale ROI pooling.
 

diff --git a/paper/submission_ejnmmi/submission_checklist_ejnmmi.md b/paper/submission_ejnmmi/submission_checklist_ejnmmi.md
@@ -35,7 +35,7 @@ Format checks:
 - Reference citations use numbered square brackets and now follow first-appearance order.
 - DOI links are included where available; remaining preprints are labelled explicitly as medRxiv records.
 - Count terminology distinguishes total in-window events (`N_total`) from o-Ps counts (`N3`).
-- The Mercolli 44Sc yield is explicitly framed as a published phantom-study scenario anchor, not as a universal scanner constant.
+- The Mercolli ^{44}Sc yield is explicitly framed as a published phantom-study scenario anchor, not as a universal scanner constant.
 - Native-voxel feasibility is stated as a 5-6 order gap; the 3-4 order gap is restricted to
   millilitre-scale ROI pooling.
 